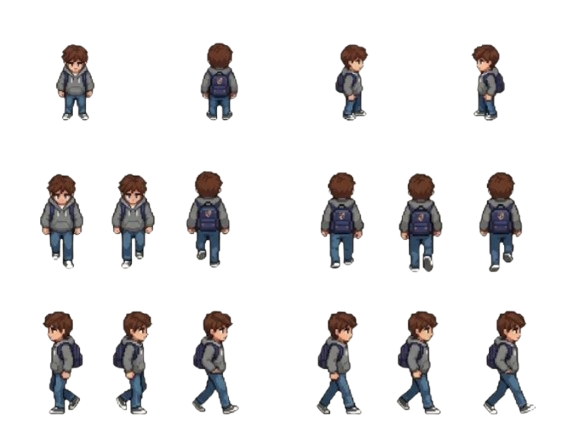
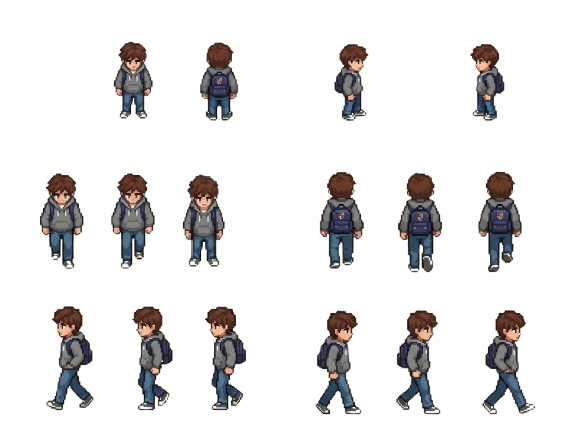
fix beberapa bug

diff --git a/ProjectDDPK1/src/main/java/com/kelompok7/projectddpk1/testGUI/EscapeRoomGUI.java b/ProjectDDPK1/src/main/java/com/kelompok7/projectddpk1/testGUI/EscapeRoomGUI.java
@@ -19,6 +19,7 @@ public class EscapeRoomGUI extends JFrame {
         setTitle("COMDEV: Commit of Development");
         setSize(700, 600);
         setDefaultCloseOperation(EXIT_ON_CLOSE);
+        setResizable(false);
         setLayout(new BorderLayout());
 
         // Setup Display Area (masih dipakai untuk mode morse & maze)
@@ -222,43 +223,52 @@ public class EscapeRoomGUI extends JFrame {
         showTextMode();
         clear();
         print("=== COMDEV: Commit of Development ===");
-        print("Status: Menjalankan hidup.exe...");
-        print("\nKamu berdiri di persimpangan jalan.");
-        print("Mau langsung kerja cari uang, atau lanjut kuliah?");
-        print("Dua-duanya kelihatan benar, tapi mana yang buatmu tenang?");
-        print("\nIngat: Setiap pilihan adalah COMMIT. Tak bisa di-Undo.");
-        print("\n(Tekan Enter untuk mulai)");
+        print("Siang yang biasa. Lapangan ramai, tawa anak-anak memenuhi udara.");
+        print("Raka berjalan menjauh dari kelompoknya...");
+        print("Matanya tertangkap sebuah mobil gelap di pinggir jalan.");
+        print("Di balik kaca — jajanan kesukaannya tersusun rapi,");
+        print("seperti sengaja dipajang.");
+        print("");
+        print("Dia mendekat. Pintu terbuka sendiri.");
+        print("...");
+        print("Klik. Terkunci.");
+        print("Gas menyebar. Mata Raka berat.");
+        print("Gelap.");
+        print("");
+        print("(Tekan Enter untuk melanjutkan...)");
     }
 
-        void room1() {
-            showSceneMode();
-            scenePanel.setBackground("/asset/bg/room1.png");
-            scenePanel.resetCharPos();
-            scenePanel.setDeskPosition(300, 290, 80, 60); // x, y, lebar, tinggi
-            scenePanel.setInteractDialog("NARRATOR",
-                "--- ROOM 1: SALAH KODE ---",
-                "Pikiranmu lagi ruwet, kayak kode yang banyak Error-nya.",
-                "Kamu butuh angka 'kunci' supaya sistem ini terbuka:",
-                "  Target: 2026  |  Sekarang: 1000",
-                "Hanya gunakan digit pertama target, sisanya digit sekarang.",
-                "",
-                "Berapa angka 'Kunci' yang kurang?"
-            );
-        }
+    void room1() {
+        showSceneMode();
+        scenePanel.setBackground("/asset/bg/room1.png");
+        scenePanel.resetCharPos();
+        scenePanel.setDeskPosition(300, 290, 80, 60);
+        scenePanel.setInteractDialog("NARRATOR",
+            "--- ROOM 1: KORAN LUSUH ---",
+            "Raka terbangun. Ruangan pengap, cahaya redup.",
+            "Di lantai, secarik koran lusuh tergeletak.",
+            "  'Sindikat pengemis anak beroperasi di kota...'",
+            "  'Korban dipilih berdasarkan kecerdasan dan usia...'",
+            "Di pojok koran, ada angka yang dilingkari tangan seseorang.",
+            "  Target: 2026  |  Sekarang: 1000",
+            "  Gunakan digit pertama target, sisanya digit sekarang.",
+            "Berapa angka yang kurang?"
+        );
+    }
 
     void room2() {
         showSceneMode();
-        // Ganti "" dengan path gambar nanti, contoh: "/assets/bg/room2.png"
         scenePanel.setBackground("/asset/bg/room1.png");
         scenePanel.setDialog("NARRATOR",
-            "--- ROOM 2: WAKTU TERBATAS ---",
-            "Kamu ngerasa tertinggal dari teman-temanmu.",
-            "Ada yang sudah sukses, ada yang masih berjuang.",
-            "",
-            "Jangan panik. Ikuti polanya:",
-            "01:00 -> 03:30 -> 06:00 -> ...",
-            "",
-            "Jam berapa selanjutnya? (Format 0000)"
+            "--- ROOM 2: SUARA DARI BALIK DINDING ---",
+            "Raka melangkah masuk ke ruangan berikutnya.",
+            "Di dinding — foto-foto anak. Banyak. Dengan tanggal di bawahnya.",
+            "Di pojok setiap foto, selalu ada satu sosok yang sama. Pria bertopeng.",
+            "Dari sudut ruangan, rekaman tua berputar sendiri...",
+            "  'Diam. Jalan terus. Minta sampai dapat.'",
+            "Di jam dinding yang rusak, jarum bergerak dalam pola aneh.",
+            "  01:00 -> 03:30 -> 06:00 -> ...",
+            "Jam berapa selanjutnya? (Format: 0000)"
         );
         input.setEnabled(true);
         input.requestFocusInWindow();
@@ -266,28 +276,44 @@ public class EscapeRoomGUI extends JFrame {
 
     void room3() {
         showSceneMode();
-        // Ganti "" dengan path gambar nanti, contoh: "/assets/bg/room3.png"
         scenePanel.setBackground("/asset/bg/room1.png");
         scenePanel.setDialog("NARRATOR",
-            "--- ROOM 3: SUARA BERBISIK ---",
-            "Banyak orang bilang: 'Buat apa sekolah tinggi?'",
-            "Tapi hatimu bilang: 'Aku butuh ilmu lebih banyak.'",
-            "",
-            "Mana yang kamu pilih?",
-            "1. Menyerah saja.",
-            "2. Terus belajar (Update diri).",
-            "3. Ikut-ikutan orang lain."
+            "--- ROOM 3: NAMAMU ADA DI SINI ---",
+            "Di meja, sebuah buku catatan terbuka.",
+            "Daftar nama anak-anak. Puluhan. Semua sudah dicoret — kecuali satu.",
+            "Paling bawah. Nama Raka. Belum dicoret.",
+            "Di balik buku, ada cermin retak. Bayangan berbisik:",
+            "  1. Menyerah dan tunggu dijemput.",
+            "  2. Terus cari jalan keluar.",
+            "  3. Ikut saja apa kata mereka.",
+            "Mana pilihanmu?"
         );
         input.setEnabled(true);
         input.requestFocusInWindow();
     }
 
     void roomMazeIntro() {
-        showMazeMode();
-        print("--- ROOM 4: JALAN BERLIKU ---");
-        print("Dunia luar itu luas dan membingungkan.");
-        print("Cari jalan keluarmu di sini sebelum waktumu habis.");
-        print("\n(Gunakan W/A/S/D untuk jalan)");
+        showTextMode();
+        clear();
+        print("--- KONFRONTASI ---");
+        print("Raka berhasil membuka pintu room 3. Udara segar dari lorong menyambutnya.");
+        print("Tapi —");
+        print("Sebuah sosok berdiri di ujung lorong. Topeng putih. Tubuh besar. Diam.");
+        print("Lalu dia berbicara, pelan tapi dingin:");
+        print("");
+        print("  \"Kamu pintar. Anak pintar... harganya mahal.\"");
+        print("");
+        print("Raka tidak menunggu kalimat berikutnya. Dia berlari.");
+        print("");
+        Timer t = new Timer(3000, e -> {
+            showMazeMode();
+            print("--- KABUR! ---");
+            print("Langkah kaki berat terdengar di belakang.");
+            print("Lorong gelap. Banyak belokan. Raka tidak punya waktu.");
+            print("(Gunakan W/A/S/D untuk kabur!)");
+        });
+        t.setRepeats(false);
+        t.start();
     }
 
     void room4() {
@@ -295,7 +321,7 @@ public class EscapeRoomGUI extends JFrame {
         showTextMode();
         clear();
         input.setEnabled(false);
-        print("--- ROOM 5: JANGAN LUPA ---");
+        print("--- ROOM 5: MEMORI ---");
         print("Seringkali kita lupa tujuan awal karena terlalu sibuk.");
         print("Simpan angka ini baik-baik di kepalamu...");
         String kode = "8821";
@@ -314,7 +340,7 @@ public class EscapeRoomGUI extends JFrame {
         // Room morse — pakai lamp mode
         showLampMode();
         clear();
-        print("--- ROOM 6: SINYAL HARAPAN ---");
+        print("--- ROOM 6: SINYAL DARI LUAR ---");
         print("Di tempat gelap, selalu ada cahaya.");
         print("Perhatikan lampu itu, dia membisikkan sebuah kode.");
         print("Tulis kodenya di sini...");

diff --git a/ProjectDDPK1/src/main/java/com/kelompok7/projectddpk1/testGUI/BallSortPanel.java b/ProjectDDPK1/src/main/java/com/kelompok7/projectddpk1/testGUI/BallSortPanel.java
@@ -11,8 +11,15 @@ public class BallSortPanel extends JPanel {
     private final int MAX_SIZE = 4;
     private EscapeRoomGUI parent;
 
+    private int moves = 0;
+    private final int MAX_MOVES = 20;
+    private JLabel movesLabel;
+    private Timer puzzleTimer;
+    
+    
     public BallSortPanel(EscapeRoomGUI parent) {
         this.parent = parent;
+        this.setLayout(new BorderLayout());
         setBackground(Color.BLACK);
         
         for (int i = 0; i < 4; i++) {
@@ -37,6 +44,19 @@ public class BallSortPanel extends JPanel {
         tubes[2].push(Color.RED); 
         tubes[2].push(Color.BLUE); 
         tubes[2].push(Color.GREEN);
+        
+        movesLabel = new JLabel("Moves: 0/" + MAX_MOVES, JLabel.CENTER);
+        movesLabel.setForeground(Color.WHITE);
+        
+        add(movesLabel, BorderLayout.NORTH);
+
+        puzzleTimer = new Timer(1000, e -> {
+        if (moves >= MAX_MOVES && !checkWinLogic()) {
+            puzzleTimer.stop();
+            parent.gameOver();
+        }
+        });
+        puzzleTimer.start();
 
         // Tabung 3: KOSONG (Wajib kosong agar bisa dimainkan)
 
@@ -51,6 +71,7 @@ public class BallSortPanel extends JPanel {
             }
         });
     }
+    
 
     private void handleTubeClick(int index) {
         if (selectedColor == null) {
@@ -63,13 +84,16 @@ public class BallSortPanel extends JPanel {
             if (tubes[index].size() < MAX_SIZE) {
                 tubes[index].push(selectedColor);
                 selectedColor = null;
+                
+                moves++;
+                movesLabel.setText("Moves: " + moves + "/" + MAX_MOVES);
                 checkWin();
             }
         }
         repaint();
     }
 
-    private void checkWin() {
+    private boolean checkWinLogic() {
         int solvedTubes = 0;
         for (Stack<Color> tube : tubes) {
             if (tube.isEmpty()) {
@@ -83,13 +107,20 @@ public class BallSortPanel extends JPanel {
                 if (allSame) solvedTubes++;
             }
         }
-        
-        // Menang jika 3 tabung penuh warna sama & 1 tabung kosong (total 4 kondisi valid)
-        if (solvedTubes == 4) {
+        return solvedTubes == 4;
+    }
+    
+     private boolean checkWin() {
+        // Panggil logika yang sudah ada
+        boolean won = checkWinLogic();
+    
+        if (won) {
+            puzzleTimer.stop(); // Bagus kalau distop di sini juga
             JOptionPane.showMessageDialog(this, "Warna Terpola! Sistem Berhasil Diurutkan.");
             parent.nextFromBallSort(); 
         }
-    }
+    return won;
+}
 
     @Override
     protected void paintComponent(Graphics g) {

diff --git a/ProjectDDPK1/src/main/java/com/kelompok7/projectddpk1/testGUI/ScenePanel.java b/ProjectDDPK1/src/main/java/com/kelompok7/projectddpk1/testGUI/ScenePanel.java
@@ -56,10 +56,11 @@ public class ScenePanel extends JPanel {
     private static final int DIR_RIGHT = 3;
 
     private static final int[][] DIR_DEF = {
-        {0, 0, 4},  // DOWN
-        {1, 3, 3},  // UP
-        {2, 0, 3},  // LEFT
-        {2, 3, 3},  // RIGHT
+        // {Row, Col_Mulai, Jumlah_Frame}
+        {1, 0, 3},  // DOWN  -> Baris 2 (index 1), mulai kolom 0, ambil 3 frame
+        {1, 3, 3},  // UP    -> Baris 2 (index 1), mulai kolom 3, ambil 3 frame
+        {2, 0, 3},  // LEFT  -> Baris 3 (index 2), mulai kolom 0, ambil 3 frame
+        {2, 3, 3},  // RIGHT -> Baris 3 (index 2), mulai kolom 3, ambil 3 frame
     };
 
     private BufferedImage[][] mcFrames;
